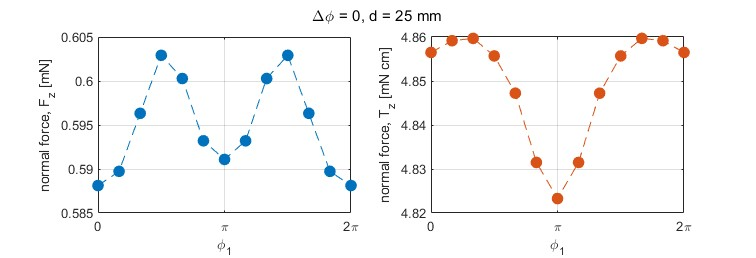
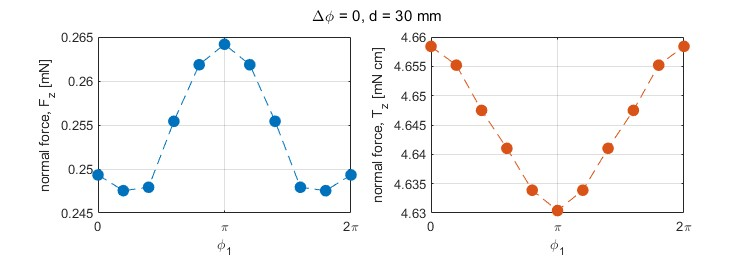
debug
corrected lines 56, 183,184 and clarified lines 191-192, 202-203 of configstepping.m

diff --git a/demo/configstepping.m b/demo/configstepping.m
@@ -27,14 +27,14 @@
 % saves progress along the way. You can stop and restart the simulation 
 % at any time, with minimal losses.
 %
-% 4) Lines 174-210: Interpret simulation results and generate plots.
+% 4) Lines 174-212: Interpret simulation results and generate plots.
 %--------------------------------------------------------------------------
 
 
 %%%%%%%%%%%%%%%%%%%%%%%%%%%%%%%%%%%%%%%%%%%%%%%%%%%%%%%%%%%%%%%%%%%%%%%%%%%
 % User-defined parameters [SI units]
 %%%%%%%%%%%%%%%%%%%%%%%%%%%%%%%%%%%%%%%%%%%%%%%%%%%%%%%%%%%%%%%%%%%%%%%%%%%
-filename = 'SBTplus_data.mat'; % change for each new simulation
+filename = 'configstepping_sampledata.mat'; % change for each new simulation
 
 % Filament geometry
 r = 10*1e-3;    % helix radius [m]
@@ -48,15 +48,15 @@ mu   = 1;       % dynamic viscosity [Pa s]
 freq = 0.1;     % frequency [Hz]
 
 % Configuration
-d    = 25*1e-3;     % inter-axial distance [m]
+d    = 30*1e-3;     % inter-axial distance [m]
 dphi = 0;           % phase difference between filaments
 
 % Decode inputs
 [l, Omega, Fscale, Tscale] = generateDimensionalParameters(h,p,r,freq,mu);
-[Nturns,epsil,psi,R,L,D] = generateDimensionlessParameters(h,p,r,re,l,d);
+[Nturns,psi,epsil,R,L,D] = generateDimensionlessParameters(h,p,r,re,l,d);
 
 % Define configuration sequence
-[x,es,~,~,phi1] = defineConfigurationSequence('dphi', dphi, 'distance', D, 'phi1', linspace(0,2*pi,13));
+[x,es,~,~,phi1] = defineConfigurationSequence('dphi', dphi, 'distance', D, 'phi1', linspace(0,2*pi,11));
 
 %%%%%%%%%%%%%%%%%%%%%%%%%%%%%%%%%%%%%%%%%%%%%%%%%%%%%%%%%%%%%%%%%%%%%%%%%%%
 % Numerical accuracy parameters
@@ -180,15 +180,16 @@ end
 load(filename,'FullRes','phi1','d','dphi')
 
 % Normal force & torque
-Fz = Fscale*FullRes(3,6,:);
-Tz = Tscale*FullRes(6,6,:);
+Fz = Fscale*(FullRes(3,6,:)+FullRes(3,12,:)); % normal force on first filament, due to unit angular velocity rotation of *both* filaments
+Tz = Tscale*(FullRes(6,6,:)+FullRes(6,12,:)); % axial torque on first filament, due to unit angular velocity rotation of *both* filaments
 
 % Plot
 mycols = lines(2);
 
 figure('Position',[499,388,756,258])
 subplot(1,2,1)
-plot(phi1(:),1e3*Fz(:),'--o','Color',mycols(1,:),'MarkerSize',8,'MarkerFaceColor',mycols(1,:))
+convf = 1e3; % unit converxion from N to mN
+plot(phi1(:),convf*Fz(:),'--o','Color',mycols(1,:),'MarkerSize',8,'MarkerFaceColor',mycols(1,:))
 xlabel('\phi_1')
 ylabel('normal force, F_z [mN]')
 box on
@@ -198,7 +199,8 @@ xticks([0 1 2]*pi)
 xticklabels({'0','\pi','2\pi'})
 
 subplot(1,2,2)
-plot(phi1(:),1e5*Tz(:),'--o','Color',mycols(2,:),'MarkerSize',8,'MarkerFaceColor',mycols(2,:))
+convf = 1e5; % unit converxion from N*m to mN*cm
+plot(phi1(:),convf*Tz(:),'--o','Color',mycols(2,:),'MarkerSize',8,'MarkerFaceColor',mycols(2,:))
 xlabel('\phi_1')
 ylabel('normal force, T_z [mN cm]')
 box on

diff --git a/demo/configstepping_plot_sampledata.m b/demo/configstepping_plot_sampledata.m
@@ -12,7 +12,8 @@ mycols = lines(2);
 
 figure('Position',[499,388,756,258])
 subplot(1,2,1)
-plot(phi1(:),1e3*Fz(:),'--o','Color',mycols(1,:),'MarkerSize',8,'MarkerFaceColor',mycols(1,:))
+convf = 1e3;  % conversation from N to mN
+plot(phi1(:),convf*Fz(:),'--o','Color',mycols(1,:),'MarkerSize',8,'MarkerFaceColor',mycols(1,:))
 xlabel('\phi_1')
 ylabel('normal force, F_z [mN]')
 box on
@@ -22,7 +23,8 @@ xticks([0 1 2]*pi)
 xticklabels({'0','\pi','2\pi'})
 
 subplot(1,2,2)
-plot(phi1(:),1e5*Tz(:),'--o','Color',mycols(2,:),'MarkerSize',8,'MarkerFaceColor',mycols(2,:))
+convf = 1e5;  % conversation from N*m to mN*cm
+plot(phi1(:),convf*Tz(:),'--o','Color',mycols(2,:),'MarkerSize',8,'MarkerFaceColor',mycols(2,:))
 xlabel('\phi_1')
 ylabel('normal force, T_z [mN cm]')
 box on
